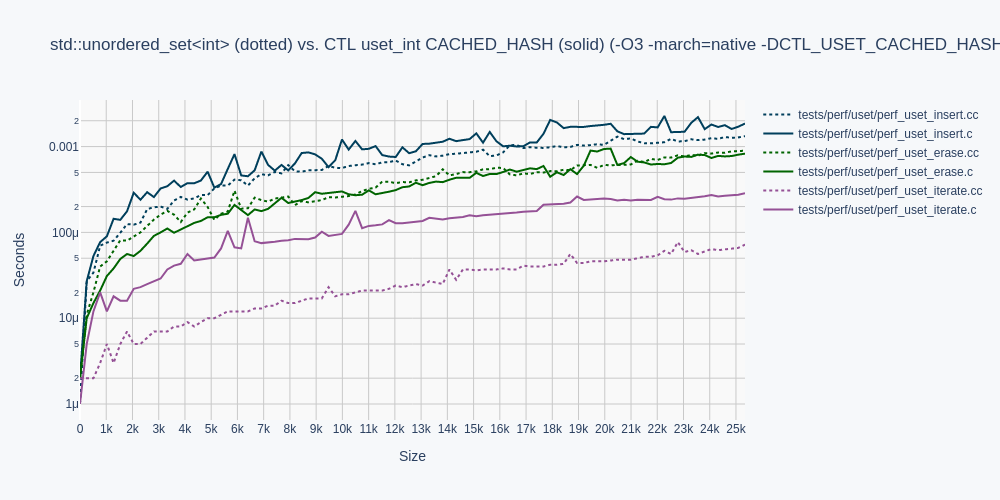
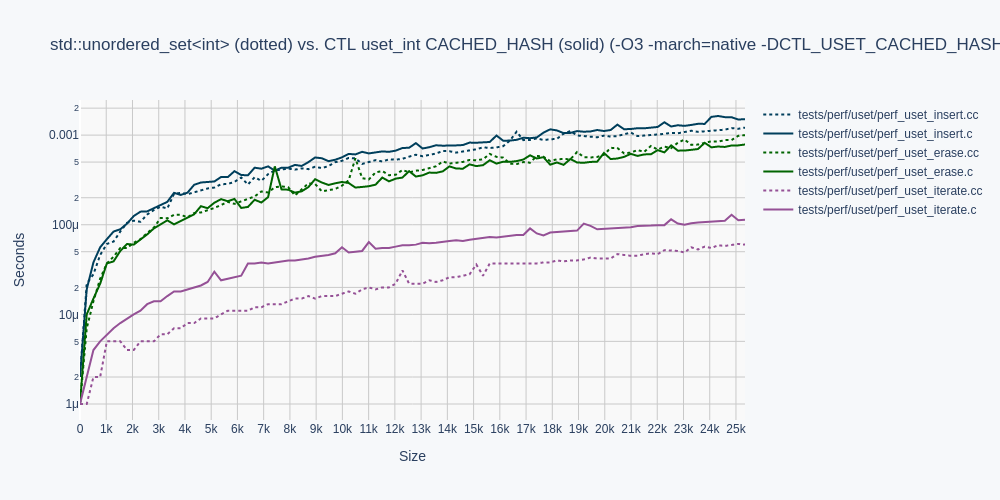
refactor uset iters
no absolute bucket_index, rather a relative buckets pointer.
which is much easier to iterate.

minor performance improvements, esp. we don't need to hash
the new BUCKET_INDEX within the loop.

Changed region(s): [[0.031, 0.21, 0.744, 0.81]]

diff --git a/ctl/unordered_set.h b/ctl/unordered_set.h
@@ -87,7 +87,7 @@ typedef struct I
     B *next;
     //B* end; // if ranges were added to usets
     A* container;
-    size_t bucket_index;
+    B** buckets; // the chain
 } I;
 
 static inline size_t
@@ -122,7 +122,7 @@ JOIN(I, iter)(A* self, B *node)
         iter.ref = &node->value;
     }
     iter.container = self;
-    iter.bucket_index = BUCKET_INDEX(&iter);
+    iter.buckets = &self->buckets[ BUCKET_INDEX(&iter) ];
     return iter;
 }
 
@@ -131,16 +131,16 @@ JOIN(A, begin)(A* self)
 {
     static I zero;
     I iter = zero;
+    B** bend = &self->buckets[self->bucket_count];
     iter.container = self;
-    for(size_t i = 0; i < self->bucket_count; i++)
+    for(B** b = self->buckets; b < bend; b++)
     {
-        B* node = self->buckets[i];
-        if(node) {
+        if(*b) {
+            B* node = *b;
             iter.ref = &node->value;
             iter.node = node;
             iter.next = node->next;
-            iter.bucket_index = i;
-            //LOG ("begin %lu %p\n", i, (void*)node);
+            iter.buckets = b;
             return iter;
         }
     }
@@ -153,7 +153,6 @@ JOIN(A, end)(A* self)
     static I zero;
     I iter = zero;
     iter.container = self;
-    iter.bucket_index = self->bucket_count;
     return iter;
 }
 
@@ -163,12 +162,13 @@ JOIN(I, ref)(I* iter)
     return iter->node ? &iter->node->value : NULL;
 }
 
-// we dont support uset ranges so far
+// We don't support uset ranges
 static inline int
 JOIN(I, done)(I* iter)
 {
-    return iter->node == NULL;
+    return iter->node == NULL; /* iter->end */
 }
+// unused
 static inline int
 JOIN(I, is_end)(I* iter, I* last)
 {
@@ -178,51 +178,42 @@ JOIN(I, is_end)(I* iter, I* last)
 static inline void
 JOIN(I, update)(I* iter)
 {
+    ASSERT(iter);
+    ASSERT(iter->node);
+    ASSERT(iter->buckets - iter->container->buckets < (long)iter->container->bucket_count);
     iter->ref = &iter->node->value;
     iter->next = iter->node->next;
-    //iter->bucket_index = BUCKET_INDEX(iter); this is updated in next instead
 }
 
-/*
-static inline int
-JOIN(I, scan)(I* iter)
-{
-    for(size_t i = iter->bucket_index + 1; i < iter->container->bucket_count; i++)
-    {
-        iter->node->next = iter->container->buckets[i];
-        if(iter->node->next)
-        {
-            iter->bucket_index = i;
-            //JOIN(I, update)(self);
-            return 1;
-        }
-    }
-    return 0;
-}
-*/
-
-/* Need two states: if next is not empty, we are still in the bucket chain, keep bucket_index.
- * if empty, we need to advance to the next bucket. bucket_index++.
- * Note: libstdc++ uses next pointers at the end of the chain to the next bucket
- * instead, so next does not need the bucket_index.
+/* Need two states: if next is not empty, we are still in the bucket chain.
+ * if empty, we need to advance to the next bucket: buckets++.
  */
 static inline void
 JOIN(I, next)(I* iter)
 {
     ASSERT(iter->node);
+    ASSERT(iter->buckets);
     if(iter->next == NULL)
     {
-        for(size_t i = iter->bucket_index + 1; i < iter->container->bucket_count; i++)
-            if((iter->node = iter->container->buckets[i]))
+        A* self = iter->container;
+        B** bend = &self->buckets[self->bucket_count];
+        for(B** b = ++iter->buckets; b < bend; b++)
+        {
+            if(*b)
             {
-                iter->bucket_index = i;
+                iter->node = *b;
+                iter->buckets = b;
                 JOIN(I, update)(iter);
                 return;
             }
+        }
         iter->node = NULL;
     }
     else
+    {
+        iter->node = iter->next;
         JOIN(I, update)(iter);
+    }
 }
 
 static inline I*
@@ -232,7 +223,7 @@ JOIN(I, advance)(I* iter, long i)
     {
         i = iter->container->size + i;
         JOIN(A, it) it = JOIN(A, begin)(iter->container);
-        iter->bucket_index = it.bucket_index;
+        iter->buckets = it.buckets;
         iter->node = it.node;
         iter->ref  = it.ref;
         iter->next = it.node->next;
@@ -522,13 +513,14 @@ JOIN(A, _reserve)(A* self, const size_t new_size)
         return;
     if (self->buckets)
     {
-        LOG("_reserve %zu realloc => %zu\n", self->bucket_count, new_size);
+        //LOG("_reserve %zu realloc => %zu\n", self->bucket_count, new_size);
         self->buckets = (B**) realloc(self->buckets, new_size * sizeof(B*));
-        memset(&self->buckets[self->bucket_count], 0, (new_size - self->bucket_count) * sizeof(B*));
+        memset(&self->buckets[self->bucket_count], 0,
+               (new_size - self->bucket_count) * sizeof(B*));
     }
     else
     {
-        LOG("_reserve %zu calloc => %zu\n", self->bucket_count, new_size);
+        //LOG("_reserve %zu calloc => %zu\n", self->bucket_count, new_size);
         self->buckets = (B**) calloc(new_size, sizeof(B*));
     }
     self->bucket_count = new_size;
@@ -548,10 +540,10 @@ JOIN(A, reserve)(A* self, size_t desired_count)
         return;
 #ifdef CTL_USET_GROWTH_POWER2
     const size_t new_size = JOIN(A, __next_power2)(desired_count);
-    LOG("power2 growth policy %zu => %zu ", desired_count, new_size);
+    //LOG("power2 growth policy %zu => %zu ", desired_count, new_size);
 #else
     const size_t new_size = JOIN(A, __next_prime)(desired_count);
-    LOG("primed growth policy %zu => %zu ", desired_count, new_size);
+    //LOG("primed growth policy %zu => %zu ", desired_count, new_size);
 #endif
     if (new_size <= self->bucket_count)
         return;
@@ -591,10 +583,10 @@ JOIN(A, rehash)(A* self, size_t desired_count)
             JOIN(B, push)(buckets, it.node);
     }
     rehashed.size = self->size;
-    LOG ("rehash temp. from %lu to %lu, load %f\n", rehashed.size, rehashed.bucket_count,
-         JOIN(A, load_factor)(self));
+    //LOG ("rehash temp. from %lu to %lu, load %f\n", rehashed.size, rehashed.bucket_count,
+    //     JOIN(A, load_factor)(self));
     free(self->buckets);
-    LOG ("free old\n");
+    //LOG ("free old\n");
     *self = rehashed;
 }
 
@@ -606,7 +598,7 @@ JOIN(A, _rehash)(A* self, size_t count)
     if (count == self->bucket_count)
         return;
     A rehashed = JOIN(A, init)(self->hash, self->equal);
-    LOG("_rehash %zu => %zu\n", self->size, count);
+    //LOG("_rehash %zu => %zu\n", self->size, count);
     JOIN(A, _reserve)(&rehashed, count);
     foreach(A, self, it)
     {
@@ -615,8 +607,8 @@ JOIN(A, _rehash)(A* self, size_t count)
             JOIN(B, push)(buckets, it.node);
     }
     rehashed.size = self->size;
-    LOG ("_rehash from %lu to %lu, load %f\n", rehashed.size, count,
-         JOIN(A, load_factor)(self));
+    //LOG ("_rehash from %lu to %lu, load %f\n", rehashed.size, count,
+    //     JOIN(A, load_factor)(self));
     free(self->buckets);
     *self = rehashed;
     return;
@@ -691,8 +683,8 @@ JOIN(A, insert)(A* self, T value)
         {
 #ifdef CTL_USET_GROWTH_POWER2
             const size_t bucket_count = 2 * self->bucket_count;
-            LOG ("rehash from %lu to %lu, load %f\n", self->size, self->bucket_count,
-                 JOIN(A, load_factor)(self));
+            //LOG ("rehash from %lu to %lu, load %f\n", self->size, self->bucket_count,
+            //     JOIN(A, load_factor)(self));
             JOIN(A, _rehash)(self, bucket_count);
 #else
             // The natural growth factor is the golden ratio. libstc++ v3 and
@@ -720,10 +712,10 @@ JOIN(A, insert_found)(A* self, T value, int* foundp)
     if(JOIN(A, empty)(self))
         JOIN(A, rehash)(self, 12);
 #ifdef DEBUG
-    B** bucket =
+    //B** bucket =
 #endif
     JOIN(A, push_cached)(self, &value);
-    LOG ("insert_found: add bucket[%zu]\n", JOIN(B, bucket_size)(*bucket));
+    //LOG ("insert_found: add bucket[%zu]\n", JOIN(B, bucket_size)(*bucket));
     if (JOIN(A, load_factor)(self) > self->max_load_factor)
         JOIN(A, rehash)(self, 2 * self->bucket_count);
     *foundp = 0;
@@ -795,7 +787,7 @@ JOIN(A, clear)(A* self)
 static inline void
 JOIN(A, free)(A* self)
 {
-    LOG("free calloc %zu, %zu\n", self->bucket_count, self->size);
+    //LOG("free calloc %zu, %zu\n", self->bucket_count, self->size);
     JOIN(A, clear)(self);
     free(self->buckets);
     self->buckets = NULL;
@@ -905,14 +897,14 @@ JOIN(A, erase_if)(A* self, int (*_match)(T*))
 static inline A
 JOIN(A, copy)(A* self)
 {
-    LOG ("copy\norig size: %lu\n", self->size);
+    //LOG ("copy\norig size: %lu\n", self->size);
     A other = JOIN(A, init)(self->hash, self->equal);
     JOIN(A, _reserve)(&other, self->bucket_count);
     foreach(A, self, it) {
         //LOG ("size: %lu\n", other.size);
         JOIN(A, insert)(&other, self->copy(it.ref));
     }
-    LOG ("final size: %lu\n", other.size);
+    //LOG ("final size: %lu\n", other.size);
     return other;
 }
 
@@ -949,7 +941,6 @@ JOIN(A, difference)(A* a, A* b)
     A self = JOIN(A, init)(a->hash, a->equal);
     foreach(A, b, it)
     {
-        //size_t i = it.bucket_index;
         B* next = it.node->next;
         JOIN(A, erase)(&self, *it.ref);
         it.node->next = next;

diff --git a/tests/func/test_unordered_set.cc b/tests/func/test_unordered_set.cc
@@ -45,7 +45,8 @@ void print_uset(uset_digi* a)
 {
     int i = 0;
     foreach(uset_digi, a, it)
-        printf("%d: %d [%zu]\n", i++, *it.ref->value, it.bucket_index);
+        printf("%d: %d [%ld]\n", i++, *it.ref->value,
+               it.buckets - a->buckets);
     printf("--\n");
 }
 void print_unordered_set(std::unordered_set<DIGI,DIGI_hash> &b)
@@ -349,7 +350,7 @@ main(void)
                 uset_digi_free(&aaa);
                 break;
             }
-#if 0
+#ifdef DEBUG
             case TEST_SYMMETRIC_DIFFERENCE:
             {
                 uset_digi aa;
@@ -399,9 +400,9 @@ main(void)
             }
             case TEST_ANY_OF:
             {
-                bool is_a = uset_digi_all_of(&a, digi_is_odd);
+                bool is_a = uset_digi_any_of(&a, digi_is_odd);
                 bool is_b = std::any_of(b.begin(), b.end(), DIGIc_is_odd);
-                assert(is_a == is_b); //fails
+                assert(is_a == is_b);
                 break;
             }
 #endif
